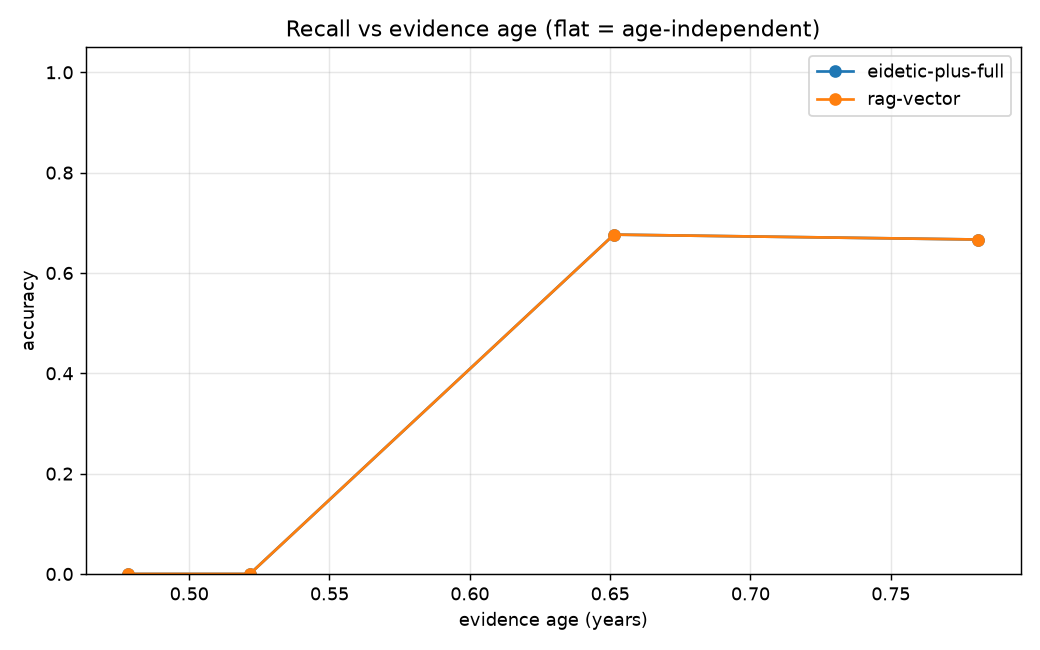
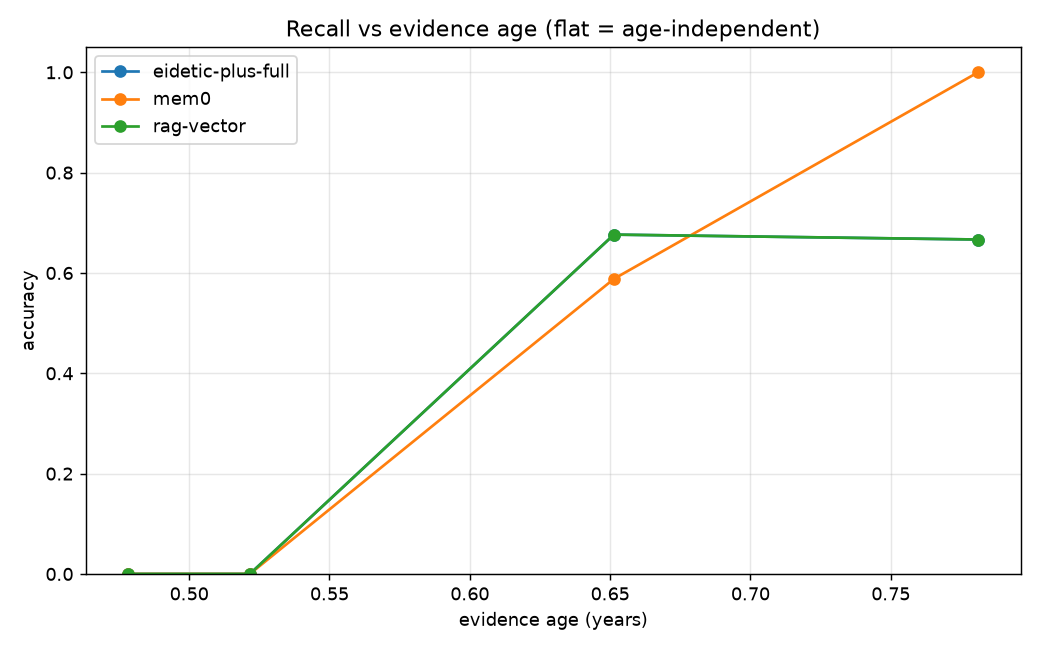
results: r16 mem0 phase-B lands -- slice complete (eidetic 25, rag-vector 25, mem0 23)
mem0: 23/40 under the series convention (errors count as wrong; 7 infra
errors this run -- 23/33 = 69.7% on answered rows, its strongest answered
rate of the series, stated for honesty). eidetic margin +2, the ninth
consecutive window win over mem0 and the narrowest since r2; with 7 mem0
errors the margin is not evidence of anything beyond the convention.
Full r16 slice now: eidetic 25/40 (verified 25) = rag-vector 25/40
(verified 0) > mem0 23/40 (verified 0). Scoreboard + curves + manifest
regenerated with all three systems.

diff --git a/artifacts/holdout_rotation_r16_codex/scoreboard.md b/artifacts/holdout_rotation_r16_codex/scoreboard.md
@@ -4,36 +4,45 @@ _Judge: **qwen3-max** (dashscope), one fixed judge + one fixed reader across all
 
 ## locomo - accuracy by category (%), mean±std; n = questions/run
 
-| category (n) | eidetic-plus-full | rag-vector |
-|---|---|---|
-| single-hop (n=21) | 85.7±0.0 | 90.5±0.0 |
-| multi-hop (n=8) | 37.5±0.0 | 37.5±0.0 |
-| temporal (n=8) | 25.0±0.0 | 0.0±0.0 |
-| open-domain (n=3) | 66.7±0.0 | 100.0±0.0 |
+| category (n) | eidetic-plus-full | mem0 | rag-vector |
+|---|---|---|---|
+| single-hop (n=21) | 85.7±0.0 | 94.4±0.0 | 90.5±0.0 |
+| multi-hop (n=8) | 37.5±0.0 | 57.1±0.0 | 37.5±0.0 |
+| temporal (n=8) | 25.0±0.0 | 20.0±0.0 | 0.0±0.0 |
+| open-domain (n=3) | 66.7±0.0 | 33.3±0.0 | 100.0±0.0 |
 
 ## locomo - Wilson 95% CI by category
 
-| category | eidetic-plus-full | rag-vector |
-|---|---|---|
-| single-hop | 18/21, 65.4-95.0 | 19/21, 71.1-97.3 |
-| multi-hop | 3/8, 13.7-69.4 | 3/8, 13.7-69.4 |
-| temporal | 2/8, 7.1-59.1 | 0/8, 0.0-32.4 |
-| open-domain | 2/3, 20.8-93.9 | 3/3, 43.9-100.0 |
+| category | eidetic-plus-full | mem0 | rag-vector |
+|---|---|---|---|
+| single-hop | 18/21, 65.4-95.0 | 17/18, 74.2-99.0 | 19/21, 71.1-97.3 |
+| multi-hop | 3/8, 13.7-69.4 | 4/7, 25.0-84.2 | 3/8, 13.7-69.4 |
+| temporal | 2/8, 7.1-59.1 | 1/5, 3.6-62.4 | 0/8, 0.0-32.4 |
+| open-domain | 2/3, 20.8-93.9 | 1/3, 6.1-79.2 | 3/3, 43.9-100.0 |
 
 ## Head-to-head paired tests
 
 | pair | category | n | a-only | b-only | McNemar p | CI-clear win | slice survival |
 |---|---|---:|---:|---:|---:|---|---|
+| eidetic-plus-full vs mem0 | locomo/multi-hop | 7 | 2 | 3 | 1.0000 | no | needs-2-runs |
+| eidetic-plus-full vs mem0 | locomo/open-domain | 3 | 1 | 0 | 1.0000 | no | needs-2-runs |
+| eidetic-plus-full vs mem0 | locomo/single-hop | 18 | 1 | 2 | 1.0000 | no | needs-2-runs |
+| eidetic-plus-full vs mem0 | locomo/temporal | 5 | 1 | 1 | 1.0000 | no | needs-2-runs |
 | eidetic-plus-full vs rag-vector | locomo/multi-hop | 8 | 2 | 2 | 1.0000 | no | needs-2-runs |
 | eidetic-plus-full vs rag-vector | locomo/open-domain | 3 | 0 | 1 | 1.0000 | no | needs-2-runs |
 | eidetic-plus-full vs rag-vector | locomo/single-hop | 21 | 0 | 1 | 1.0000 | no | needs-2-runs |
 | eidetic-plus-full vs rag-vector | locomo/temporal | 8 | 2 | 0 | 0.5000 | no | needs-2-runs |
+| mem0 vs rag-vector | locomo/multi-hop | 7 | 2 | 1 | 1.0000 | no | needs-2-runs |
+| mem0 vs rag-vector | locomo/open-domain | 3 | 0 | 2 | 0.5000 | no | needs-2-runs |
+| mem0 vs rag-vector | locomo/single-hop | 18 | 1 | 1 | 1.0000 | no | needs-2-runs |
+| mem0 vs rag-vector | locomo/temporal | 5 | 1 | 0 | 1.0000 | no | needs-2-runs |
 
 ## Cost (approx tokens, uniform ~4 chars/token across all systems)
 
 | system | tokens / write (per conversation) | tokens / query |
 |---|---|---|
 | eidetic-plus-full | 21604 | 5914 |
+| mem0 | 21574 | 393 |
 | rag-vector | 21604 | 1842 |
 
 ## Latency (ms)
@@ -41,6 +50,7 @@ _Judge: **qwen3-max** (dashscope), one fixed judge + one fixed reader across all
 | system | search p50 | search p95 | e2e p50 | e2e p95 |
 |---|---|---|---|---|
 | eidetic-plus-full | 2319.9 | 4171.9 | 20806.8 | 24594.4 |
+| mem0 | 677.1 | 1156.0 | 2889.7 | 5026.5 |
 | rag-vector | 0.5 | 893.2 | 2561.4 | 4260.3 |
 
 ## Consolidation Health
@@ -58,6 +68,7 @@ _verified accuracy = correct AND entailment-proven, over ALL questions (so abste
 | system | n | verified accuracy (/n) | unproven-answer rate | abstention rate |
 |---|---:|---:|---:|---:|
 | eidetic-plus-full | 40 | 37.5% | 35.0% | 2.5% |
+| mem0 | 33 | N/A (no verify step) | N/A (no verify step) | 0.0% |
 | rag-vector | 40 | N/A (no verify step) | N/A (no verify step) | 0.0% |
 
 > **Honest frontier note.** Cross-session contradiction resolution at BEAM scale (1M->10M tokens) is unsolved across the field (best public BEAM-1M contradiction ~0.357). Eidetic-Plus targets the LongMemEval + LoCoMo categories above and the two categorical wins no competitor has (flat recall-vs-age, verified recall with a citable immutable source); BEAM-10M contradiction is presented as the frontier, not a solved box.